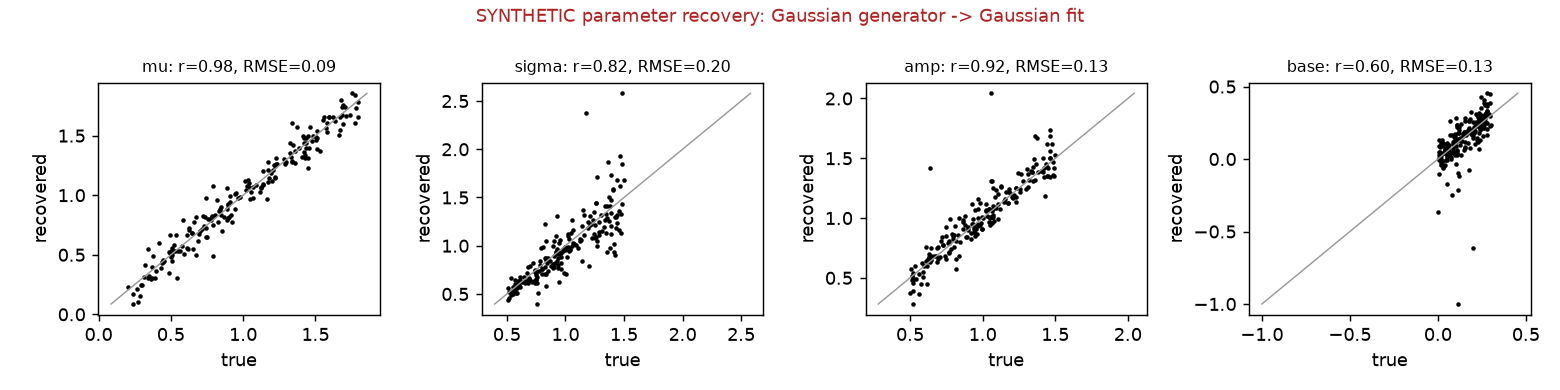
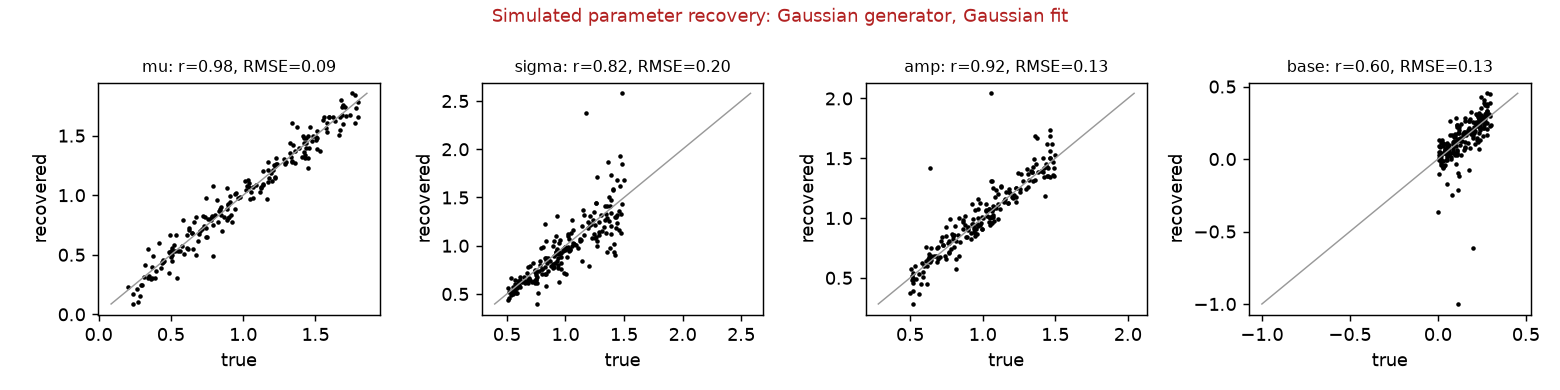
Plain docstrings and plot labels

Changed region(s): [[0.3077, 0.0, 0.7077, 0.0615]]

diff --git a/sfu/simulation.py b/sfu/simulation.py
@@ -1,14 +1,11 @@
-"""SYNTHETIC population-SF-tuning sandbox: tuning-profile scenarios, Gaussian
-and flexible (asymmetric, bimodal, B-spline) fits, parameter and model recovery.
+"""Simulated population SF tuning: tuning scenarios, Gaussian and flexible fits
+(split Gaussian, bimodal, B-spline), and parameter and model recovery.
 
-Everything here is simulated. It answers "could this design + model tell these
-tuning hypotheses apart at this noise level?", not "what does cortex do".
-Real voxel-wise pSFT estimation (HRF convolution, fMRI time series) belongs in
-the pSF-Toolbox (MATLAB, github.com/luisdramirez/pSF-Toolbox); the response
-model here is a static noisy tuning curve sampled at probe SFs.
+This checks whether the design and models can tell tuning hypotheses apart at a
+given noise level. It uses static noisy tuning curves sampled at probe SFs.
+Voxel-wise pSFT fitting with HRF convolution belongs in the pSF-Toolbox.
 
-Axis: x = log2(SF in cpd). A Gaussian on this axis is a log-Gaussian in cpd
-(Ramirez et al. 2025 Eq. 1 uses natural log; the bandwidth differs by ln 2).
+The x axis is log2(SF in cpd), so a Gaussian here is a log-Gaussian in cpd.
 
     python -m sfu.simulation --out figures/simulation
 """
@@ -158,7 +155,7 @@ def make_figures(out: str | Path, noise_sd: float = 0.1, seed: int = 0) -> list[
         ax.set_xticks(np.log2([0.25, 1, 4, 12]), ["0.25", "1", "4", "12"]); ax.set_xlabel("SF (cpd)")
     for ax in axs[:, 0]:
         ax.set_ylabel("response (a.u.)")
-    fig.suptitle(f"SYNTHETIC tuning scenarios (noise SD {noise_sd}); not data", fontsize=11, color="firebrick")
+    fig.suptitle(f"Simulated tuning scenarios (noise SD {noise_sd})", fontsize=11, color="firebrick")
     fig.tight_layout(); f = out / "synthetic_tuning_scenarios.png"; fig.savefig(f, dpi=130); plt.close(fig); files.append(f)
 
     pr = parameter_recovery(noise_sd=noise_sd, seed=seed)
@@ -169,7 +166,7 @@ def make_figures(out: str | Path, noise_sd: float = 0.1, seed: int = 0) -> list[
         ax.plot(lim, lim, color="0.6", lw=0.8)
         s = pr["summary"][n]
         ax.set_title(f"{n}: r={s['r']:.2f}, RMSE={s['rmse']:.2f}", fontsize=9); ax.set_xlabel("true"); ax.set_ylabel("recovered")
-    fig.suptitle("SYNTHETIC parameter recovery: Gaussian generator -> Gaussian fit", fontsize=10, color="firebrick")
+    fig.suptitle("Simulated parameter recovery: Gaussian generator, Gaussian fit", fontsize=10, color="firebrick")
     fig.tight_layout(); f = out / "synthetic_parameter_recovery.png"; fig.savefig(f, dpi=130); plt.close(fig); files.append(f)
 
     mr = model_recovery(noise_sd=noise_sd, seed=seed + 1)
@@ -179,7 +176,7 @@ def make_figures(out: str | Path, noise_sd: float = 0.1, seed: int = 0) -> list[
         ax.text(j, i, f"{v:.2f}", ha="center", va="center", color="w" if v > 0.5 else "k", fontsize=9)
     ax.set_xticks(range(len(mr["candidates"])), mr["candidates"], rotation=20); ax.set_yticks(range(len(mr["generators"])), mr["generators"])
     ax.set_xlabel("selected by BIC"); ax.set_ylabel("generating model"); fig.colorbar(im, ax=ax, fraction=0.04)
-    ax.set_title("SYNTHETIC model recovery", fontsize=10, color="firebrick")
+    ax.set_title("Simulated model recovery", fontsize=10, color="firebrick")
     fig.tight_layout(); f = out / "synthetic_model_recovery.png"; fig.savefig(f, dpi=130); plt.close(fig); files.append(f)
     return files
 
@@ -192,9 +189,9 @@ def main(argv=None):
     for f in make_figures(a.out, a.noise_sd):
         print(f)
     pr = parameter_recovery(noise_sd=a.noise_sd)
-    print("SYNTHETIC parameter recovery:", {k: {m: round(v, 3) for m, v in d.items()} for k, d in pr["summary"].items()})
+    print("Simulated parameter recovery:", {k: {m: round(v, 3) for m, v in d.items()} for k, d in pr["summary"].items()})
     mr = model_recovery(noise_sd=a.noise_sd)
-    print("SYNTHETIC model recovery (rows=generator, cols=", mr["candidates"], "):\n", mr["confusion"].round(2))
+    print("Simulated model recovery (rows=generator, cols=", mr["candidates"], "):\n", mr["confusion"].round(2))
 
 
 if __name__ == "__main__":

diff --git a/sfu/analysis.py b/sfu/analysis.py
@@ -1,11 +1,10 @@
-"""Behavioral analysis + stimulus-distribution validation.
+"""Behavioral analysis and checks of the realized SF distributions.
 
     python -m sfu.analysis data/demo --out figures/demo
 
-Behavioral accuracy/RT differences across expectation conditions are NOT
-evidence about neural SF tuning. They can arise from decision-level priors,
-response bias, attention, or adaptation. Tuning claims need neural data
-(e.g. fMRI pSFT fits with the pSF-Toolbox) and the controls in docs/PROTOCOL.md.
+Differences in accuracy or RT between conditions do not show changes in neural
+tuning. They can come from decision priors, response bias, attention or
+adaptation.
 """
 from __future__ import annotations
 
@@ -101,7 +100,7 @@ def plot_all(df: pd.DataFrame, side: dict, out: str | Path) -> list[Path]:
     import matplotlib.pyplot as plt
     out = Path(out); out.mkdir(parents=True, exist_ok=True)
     synthetic = bool(df.get("synthetic", pd.Series([False])).astype(str).eq("True").any())
-    tag = "  [SYNTHETIC DATA - simulated observer]" if synthetic else ""
+    tag = "  [simulated observer, not real data]" if synthetic else ""
     files = []
     # 1. intended vs realized
     main = df[df.block_type == "main"]
@@ -155,9 +154,9 @@ def main(argv=None):
     files = plot_all(df, side, out)
     pd.set_option("display.width", 200, "display.max_columns", 30)
     print(v.round(4).to_string(index=False)); print(); print(b.round(3).to_string(index=False))
-    print("\nNOTE: behavioral effects are not direct evidence of neural tuning changes.")
+    print("\nBehavioral effects are not direct evidence of neural tuning changes.")
     if df.synthetic.astype(str).eq("True").any():
-        print("NOTE: data contain SYNTHETIC (simulated-observer) trials.")
+        print("Data include simulated-observer trials.")
     print("\n".join(map(str, files)))
 
 

diff --git a/sfu/schedule.py b/sfu/schedule.py
@@ -1,22 +1,16 @@
-"""Trial scheduling: seeds, counterbalancing, SF sampling, response balancing, probes.
+"""Trial scheduling: seeds, counterbalancing, SF sampling, response balancing
+and probes.
 
-Two sampling schemes (config.design.sampling):
+Sampling (design.sampling):
+* probability: each trial is an independent draw from the PMF, so realized
+  proportions vary by block and must be reported per block.
+* fixed_count: counts per level are set by largest-remainder rounding and then
+  shuffled. Realized proportions match the PMF, but late trials in a block are
+  in principle predictable.
 
-* probability  - each trial's SF level is an independent draw from the PMF. The
-  sequence is truly i.i.d. (no information in trial history about upcoming
-  trials), but the realized frequencies deviate from the PMF by sampling error
-  (SD of a level's proportion = sqrt(p(1-p)/n)); realized moments differ from
-  intended ones and must be reported per block.
-* fixed_count  - counts per level are fixed by largest-remainder rounding of
-  p*n, then shuffled. Realized proportions equal the rounded PMF exactly, so
-  conditions can be compared without sampling noise in the stimulus set, but
-  the sequence is sampling *without replacement*: late in a block, remaining
-  levels are predictable in principle, and rare levels have exact counts
-  (possibly 0) that a participant could learn.
-
-All randomness derives from np.random.SeedSequence([study_seed, hash(participant,
-session)]); each block gets a spawned child seed so regenerating any block is
-independent of the others (needed for abort/resume).
+All randomness comes from np.random.SeedSequence([study_seed, hash(participant,
+session)]), with one child seed per block so any block can be regenerated on its
+own when resuming.
 """
 from __future__ import annotations
 

diff --git a/sfu/distributions.py b/sfu/distributions.py
@@ -1,17 +1,11 @@
 """Discrete probability distributions over a log2 spatial-frequency grid.
 
-All distributions are PMFs on a fixed grid of log2(SF) levels. Continuous
-densities are evaluated at grid points and renormalized (i.e. truncated to the
-grid range and discretized). Reported statistics are always computed from the
-*discrete* PMF actually used to sample stimuli, never from the continuous
-generator.
+Continuous densities are evaluated at the grid points and renormalized. All
+reported statistics come from the discrete PMF used to sample stimuli.
 
-Skew terminology (important): "right-skewed" here means positive statistical
-skewness = a long tail toward HIGH SF. Under mode matching this puts more
-probability above the mode (P(SF > 2 cpd) > 0.5), which matches the intuitive
-definition "greater probability of higher SFs". Under mean matching the
-same distribution has its mode BELOW the mean. `stats()` reports `p_above_center`
-so the reader never has to infer this.
+"Right-skewed" means positive skewness, i.e. a longer tail toward high SF. With
+mode matching this puts more probability above the peak. With mean matching the
+peak sits below the mean. `stats()` reports `p_above_center` for both.
 """
 from __future__ import annotations
 

diff --git a/sfu/gui.py b/sfu/gui.py
@@ -1,10 +1,8 @@
-"""Researcher interface: configure distributions, monitor, design; inspect
-statistics; preview Gabors at true px/deg; generate + export reproducible
-schedules; compare intended vs realized distributions.
+"""Researcher interface: set distributions, monitor and design values, inspect
+statistics, preview Gabors at the monitor's pixels per degree, and generate and
+export trial sequences.
 
     python -m sfu.gui --config configs/demo.json
-
-Plain matplotlib widgets (no extra GUI dependency). Not shown to participants.
 """
 from __future__ import annotations
 
@@ -137,7 +135,7 @@ class ResearcherGUI:
                 r = realized[name] / realized[name].sum()
                 ax.plot(g, r, "o", ms=4, color="k", label="realized")
             m = cond["match"]
-            flag = "" if not m or "matched" not in m else ("  [matched]" if m["matched"] else "  [NOT matched]")
+            flag = "" if not m or "matched" not in m else ("  [matched]" if m["matched"] else "  [not matched]")
             ax.set_title(name + flag, fontsize=9)
             ax.set_xticks(g[::2], [f"{2**v:.2g}" for v in g[::2]], fontsize=7)
             ax.tick_params(labelsize=7)

diff --git a/sfu/runner.py b/sfu/runner.py
@@ -1,8 +1,8 @@
-"""Session driver + backends + CLI.
+"""Session driver and command line.
 
-    python -m sfu.runner --config configs/pilot.json --participant P01 --session 1 --cb-index 0
-    python -m sfu.runner --config configs/demo.json --participant demo --headless      # no display
-    python -m sfu.runner --config configs/demo.json --participant demo --demo --windowed --autorespond
+    python -m sfu.runner --config configs/pilot.json --participant P01 --session 1
+    python -m sfu.runner --config configs/demo.json --participant demo01 --headless
+    python -m sfu.runner --config configs/demo.json --participant demo01 --demo --windowed
     python -m sfu.runner --config configs/pilot.json --check-calibration
 """
 from __future__ import annotations
@@ -50,7 +50,7 @@ def _now() -> str:
 
 
 class HeadlessBackend:
-    """No window, no PsychoPy. Responses from a SYNTHETIC observer; timings are
+    """No window, no PsychoPy. Responses from a simulated observer; timings are
     nominal frame counts. For testing logic only."""
     name = "headless"
 

diff --git a/sfu/calibration.py b/sfu/calibration.py
@@ -1,12 +1,11 @@
 """Monitor geometry and visual-angle conversion.
 
-Exact geometry (no small-angle approximation): a stimulus of `deg` degrees
-centred on the line of sight spans 2*d*tan(deg/2) cm. For eccentric stimuli,
-the position uses d*tan(ecc). Pixels-per-degree reported at screen centre.
+Uses exact geometry: a centred stimulus of `deg` degrees spans 2*d*tan(deg/2) cm,
+and a point at eccentricity `ecc` lies d*tan(ecc) from the centre. Pixels per
+degree are reported at the screen centre.
 
-`calibrated` must be set True only after the width, resolution and viewing
-distance have been physically measured (and, ideally, luminance gamma-corrected).
-Nothing in this module can verify that; it only records the claim.
+Set `calibrated` to True only after measuring the screen width, resolution and
+viewing distance.
 """
 from __future__ import annotations
 

diff --git a/sfu/stimulus.py b/sfu/stimulus.py
@@ -1,10 +1,9 @@
-"""Gabor stimulus parameters, PsychoPy factory, and a numpy preview renderer.
+"""Gabor parameters for PsychoPy GratingStim and a numpy preview.
 
-PsychoPy convention (checked against psychopy 2026.2.5 tools/arraytools.py):
-mask='gauss' with maskParams={'sd': 3} gives envelope SD = size/6, so we set
-size = 6 * envelope_sd. All PsychoPy stimuli use units='pix' with SF converted
-by our own calibration (sfu.calibration), so cpd never depends on PsychoPy's
-small-angle 'deg' approximation. ori: degrees clockwise from vertical; phase in cycles.
+In PsychoPy, mask='gauss' with maskParams={'sd': 3} gives an envelope SD of
+size/6, so size = 6 * envelope SD. Stimuli use units='pix' with SF converted by
+sfu.calibration. Orientation is in degrees clockwise from vertical; phase is in
+cycles.
 """
 from __future__ import annotations
 

diff --git a/sfu/adaptive.py b/sfu/adaptive.py
@@ -1,8 +1,8 @@
-"""Per-SF orientation staircases (2-down/1-up, converges near 70.7% correct).
+"""Per-SF 2-down/1-up orientation staircases (about 71% correct).
 
-Used only in the calibration block (uniform prior), then *frozen*: main blocks
-use a fixed tilt per SF level. A staircase running during the main blocks would
-partially absorb the very expectation effect under study.
+Run only in the calibration block with a uniform prior. The resulting tilts are
+then fixed for the main blocks, because a staircase running there would absorb
+part of the expectation effect.
 """
 from __future__ import annotations
 

diff --git a/sfu/responses.py b/sfu/responses.py
@@ -1,9 +1,6 @@
-"""Response collection. Real keyboard input lives in runner.PsychoPyBackend
-(psychopy.hardware.keyboard; RT clock reset on the stimulus-onset flip).
-
-* SimulatedObserver: SYNTHETIC responses for headless runs and window smoke
-  tests. Its parameters are invented for software testing and carry no
-  empirical meaning.
+"""Simulated observer used by headless runs and --autorespond. Its parameters
+are made up for testing the software. Real keyboard input is handled in
+runner.PsychoPyBackend.
 """
 from __future__ import annotations
 

diff --git a/sfu/datalog.py b/sfu/datalog.py
@@ -1,6 +1,7 @@
-"""Crash-safe trial logging: one CSV row per trial (flushed + fsynced), plus a
-JSON sidecar with config, schedule summary, seeds, versions and state history.
-The CSV is the checkpoint used for abort recovery."""
+"""Trial logging. Each trial is written to the CSV and synced to disk before the
+next one starts, and the CSV doubles as the checkpoint for resuming. A JSON
+sidecar holds the config, schedule summary, seeds and one record per run.
+"""
 from __future__ import annotations
 
 import csv

diff --git a/tests/test_keyboard_psychopy.py b/tests/test_keyboard_psychopy.py
@@ -1,6 +1,7 @@
-"""Real PsychoPy window + in-process macOS key events (no Accessibility permission needed).
-Regression test for the instructions screen never receiving keys. Skipped without
-PsychoPy/pyobjc (e.g. the core .venv); run with .venv-psychopy."""
+"""Opens a real PsychoPy window and sends it macOS key events from inside the
+process. Checks that the instructions screen and a trial receive key presses.
+Skipped when PsychoPy or pyobjc is not installed.
+"""
 import sys
 import threading
 import time
